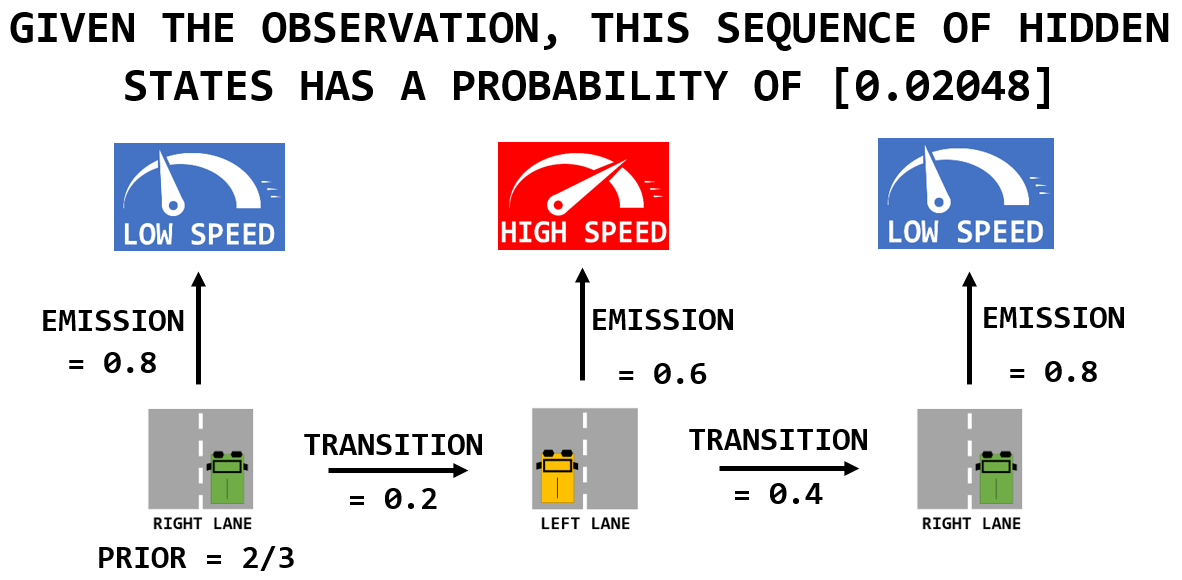
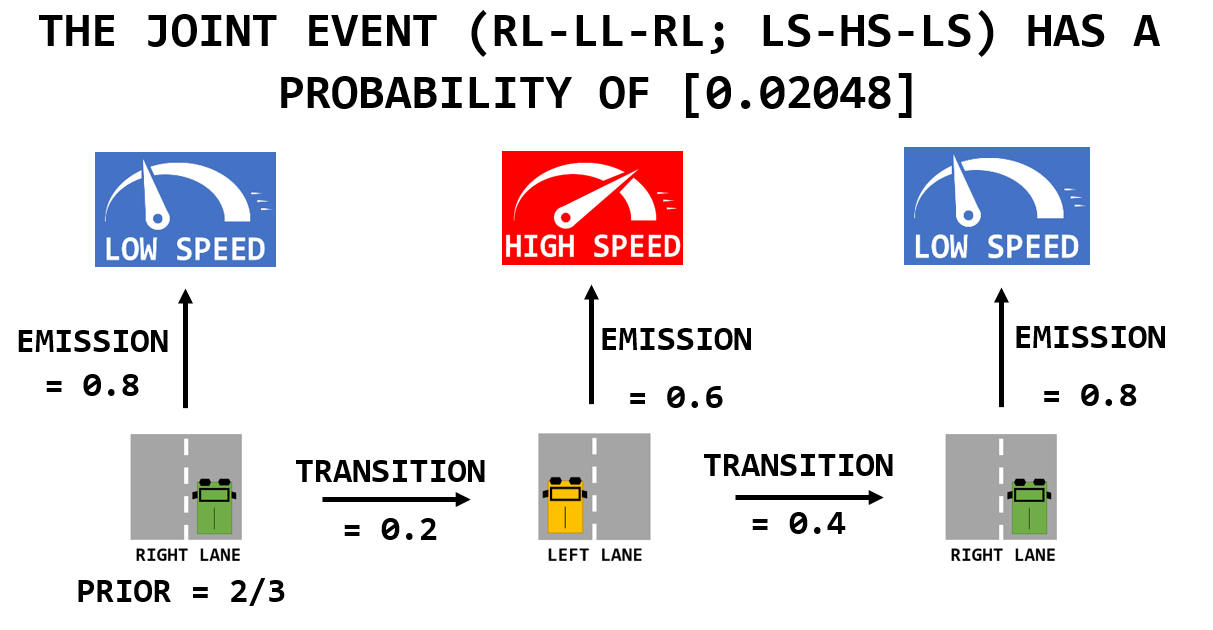
docs - clarify the difference between posterior decoding and MLE

diff --git a/README.md b/README.md
@@ -10,8 +10,12 @@ Disclaimer:
 
 Addressed topics:
 - Problem setting using a basic example to introduce the **HMM terminology**.
-- Implementation of the **Viterbi Algorithm** for training Hidden Markov Models.
-- Implementation of the **Baum–Welch Algorithm** to find the maximum likelihood estimate of the parameters of the HMM.
+- Illustration of the **Bayes Rule** to determine the most likely sequence of state given a observation sequence.
+- Implementation of the **Forward and Backward Algorithm** to compute the probability of a particular observation sequence.
+- Implementation of the **Viterbi Algorithm** to find the most likely sequence of hidden states which could have generated a given observation sequence (**posterior decoding**).
+- Implementation of the **Baum-Welch Algorithm** to find the most likely parameters (state transition and emmission models) of the HMM given a observation sequence (**parameter learning** task).
+
+Given the model parameters, : is Solved by the Viterbi algorithm and **Posterior decoding**.
 
 # Problem motivation
 For left-hand-drive countries such as the UK, just invert the reasoning :smiley:
@@ -19,7 +23,7 @@ For left-hand-drive countries such as the UK, just invert the reasoning :smiley:
 - Your car is driving on a **2-lane highway**.
 - Imagine that you can **remotely monitor the velocity of the car (I communicate it to you)**
 - But you do have **no direct access to the lateral position** (`right lane` of `left lane`).
-- How could you deduce the `lane` based on the single information we receive: the `speed`?
+- How could you deduce the `lane` based on the single information we receive (the `speed`)?
 
 #### Emission probability
 
@@ -30,11 +34,11 @@ If I am telling you that I am driving with a `low speed`, you **may deduce** tha
 
 Similarly, if you get informed of a `high speed`, you could say that I am **more likely** to be driving on the left lane.
 - Probably overtaking another vehicle.
-- Nevertheless, this is **not always true**: think of the situation where you are waiting on the left lane behind a truck trying to overtake another truck
+- Nevertheless, this is **not always true**: think of the situation where you are waiting on the left lane behind a truck trying to overtake another truck.
 
 We get a **first intuition**:
 - The variable `lane` seems to have an impact on the variable `speed`.
-- In  other words: *a priori* **you do not drive at the same pace depending if you are one the `left lane` or the `right lane`**.
+- In  other words: **you do not drive at the same pace depending if you are one the `left lane` or the `right lane`**.
 - But the relation is **not deterministic**, rather **stochastic**.
 
 This finding will be modelled using **`emission probabilities`** in the following.
@@ -45,7 +49,7 @@ You could have another intuition:
 - Human drivers usually **stay on their lanes**.
 - Hence if you are on `right lane` at time `t`, you are likely to still be on `right lane` at time `t+1`.
 - Again, this **does not always hold** and you can find **exception**.
-- But here comes a second intuition: *a priori* **the `lane` at time `t` is influenced by the `lane` at time `t-1`**.
+- But here comes a second intuition: **the `lane` at time `t` is influenced by the `lane` at time `t-1`**.
 
 The concept of **`transition probability`** will be used to model this second remark.
 
@@ -58,44 +62,44 @@ The concept of **`transition probability`** will be used to model this second re
 
 ### Objective
 
-> We want to **infer the lane** (`right` of `left`) of the car (= **hidden state**) based on a **sequence of speed measurements** (= **observation**)
+> We want to **infer the lane** (`right` of `left`) of the car (= **hidden state**) based on a **sequence of speed measurements** (= **observation**).
 
 ### Assumptions
 To keep the problem as simple as possible:
 - Let's **discretize the speed** into `low speed` and `high speed`.
 - Time steps are discretized.
-- Lane transitions are ignored: either you are on `left lane` or you are on `right lane`
+- Lane transitions are ignored: either you are on `left lane` or you are on `right lane`.
 
 A word about the **Markov Property**:
-- We just said that it is useful to know the present `lane` (at time `t`) to infer the future `lane` (at time `t+1`)
+- We just said that it is useful to know the present `lane` (at time `t`) to infer the future `lane` (at time `t+1`).
 - What about the previous `lane` at `t-1`? It probably also hold relevant information?
 - Here is a strong assumption about inferring in this stochastic process:
 	- the conditional probability distribution of **future states** of the process (conditional on both past and present states) **depends only upon the present state**, not on the sequence of events that preceded it.
-- In other words, **"the future is independant of the past given the present"**
-- This strong assumption is known as the **Markov Property** (also named **"memoryless property"**) and will make computations easier in the following.
+- In other words, **"the future is independant of the past given the present"**.
+- This **strong assumption** is known as the **Markov Property** (also named **"memoryless property"**) and will make computations easier in the following.
 
 # Problem formulation
+
+For HMM:
 
 - **Hidden state**: discrete random variable `lane` in {`Right Lane`, `Left Lane`}
 - **Observation**: discrete random variable `speed` in {`Low Speed`, `High Speed`}
 - **Emission probability**: `P[speed(t)` given `lane(t)]`
 - **Transition probability**: `P[lane(t+1)` given `lane(t)]`
-- **Prior probability**: `P[lane(t)]`
-- **Marginal probability**: `P[speed(t)]`
-- **Posterior probability**: `P[lane(t)` given `speed(t)]`
-
+- **Initial state probability**: `P[lane(t)]`
 
 # Questions:
 - [Q1](#q1) - How to **derive the probability models**?
-- [Q2](#q2) - If you receive a **single observation**, what are the probability for the car to be in each lane?
-- [Q3](#q3) - What is the **most likely `lane` sequence** if the **sequence of observations** is [`low speed`, `high speed`, `low speed`]?
-- [Q4](#q4) - What if you are **not directly given the probability models**?
+- [Q2](#q2) - If you receive a **single speed observation**, what are the probability for the car to be in each lane?
+- [Q3](#q3) - What is the **probability of an observation sequence**? For instance [`low speed`, `high speed`, `low speed`].
+- [Q4](#q4) - What is the **most likely `lane` sequence** if the **observation sequence** is [`low speed`, `high speed`, `low speed`]?
+- [Q5](#q5) - What if you are **not directly given the probability models**?
 
 # Answers
 
 ## Q1 - How to derive the probability models?
 
-Let assume we are given some data: a sequence of observations and states.
+Let assume we are given some data: a observation sequence and states.
 - Here are only a few for simplicity but you could imagine longer recordings.
 - You can think of it as some **samples** of the underlying **joint distributions**.
 
@@ -103,7 +107,7 @@ The idea is to **approximate the model parameters by counting the occurrences**.
 
 ### Transition probability
 
-**Counting the number** of transitions gives a likelihoods we can used for our **transition probability** model.
+**Counting the number** of transitions, we can derive a **transition probability** model.
 - For instance, among the `15` transitions starting from `right lane`, `3` ended in `left lane`.
 	- Hence P[`right lane` -> `left lane`] = `0.2`
 - Since probabilities must sum to one (normalization), or just by counting for the other case (`right lane` is followed `12` times by a `right lane`)
@@ -116,14 +120,13 @@ The idea is to **approximate the model parameters by counting the occurrences**.
 ### Emission probability
 
 Counting can also be used to determine the **emission probability** model.
-- For instance, how many times a `left lane` has caused a `high speed`?
-- Note: in the **Bayesian framework**, we will see that it corresponds to the **Likelihood**.
+- For instance, how many times has the hidden state `left lane` caused a `high speed` observation?
 
 | ![Derivation of the emission probability model](docs/deriving_emission_model.PNG "Derivation of the emission probability model")  | 
 |:--:| 
 | *Derivation of the emission probability model* |
 
-## Prior probability
+## Initial state probability
 
 At any time `t`, what is your guess on the **distribution of the hidden state if no observation is given**?
 - Two options are available:
@@ -136,9 +139,9 @@ At any time `t`, what is your guess on the **distribution of the hidden state if
 
 ### Summary
 
-| ![Hidden Markov Model with the `prior probability` model (up), `transition probability` model (middle), and the `emission probability` model (below)](docs/hmm.PNG "Hidden Markov Model with the `prior probability` model (up), `transition probability` model (middle), and the `emission probability` model (below)")  | 
+| ![Hidden Markov Model with the `initial state probability` model (up), `transition probability` model (middle), and the `emission probability` model (below)](docs/hmm.PNG "Hidden Markov Model with the `initial state probability` model (up), `transition probability` model (middle), and the `emission probability` model (below)")  | 
 |:--:| 
-| *Hidden Markov Model with the `prior probability` model (up), `transition probability` model (middle), and the `emission probability` model (below)* |
+| *Hidden Markov Model with the `initial state probability` model (up), `transition probability` model (middle), and the `emission probability` model (below)* |
 
 ## Q2 - If you receive a single observation, what are the probability for the car to be in each lane?
 
@@ -147,20 +150,23 @@ At any time `t`, what is your guess on the **distribution of the hidden state if
 Before any observation we know that `right lane` appears `2/3` of the time and `left lane` `1/3`.
 - These probabilities would have been the answers if we were to **ignore the observation**.
 - This distribution (called `prior`) must be **updated** when considering the observation.
-- The `prior` is converted to a `posterior` using `likelihood` as `observations` are considered.
+- When considering the observation, the `prior` is converted to a `posterior` using `likelihood` terms.
 
 ### Likelihood
 
 Based on supplied data, we found that on the left lane it is more likely to drive fast. And slow on the right lane.
-- This led to `emission probability`, also understood as `likelihood`:
+In other words, you will be rather "suprised" if a left lane causes.
+I like the concept of **"Surprise"** to introduce the concept of **"Likelihood"**
+- The likelihood is, in this case, equivalent to the `emission probability`:
 	- **given a state**, what is the probability for each observation.
-- In the `posterior`, it is the **opposite** that apply:
+- Actually, the question is interested by the exact opposite:
 	- **given an observation**, what is the probability for each state?
+	- this is called the `posterior` and is linked to `prior` via the `likelihood`.
 
 ### Marginal
 The Bayes Rule states that `Posterior` = `Normalized (prior * likelihood)`
-- The normalization is done using the `Marginal Probabilities`
-- Under all possible hypothesese, how probable is each `speed`?
+- The normalization (the posterior terms must sum to `1`) is achieved using the `Marginal Probabilities`.
+- Under all possible hypotheses, how probable is each `speed`?
 - Using the **law of total probability**:
 	- P(`high speed`) = P(`high speed` given `left lane`) `*` P(`left lane`) + P(`high speed` given `right lane`) `*` P(`right lane`)
 	- P(`low speed`) = P(`low speed` given `left lane`) `*` P(`left lane`) + P(`low speed` given `right lane`) `*` P(`right lane`)
@@ -195,13 +201,11 @@ Posteriors:
 - P(`right lane` given `high speed`) = `2/3` `*` `0.2` / `1/3` = `0.4`
 - P(`right lane` given `low speed`) = `2/3` `*` `0.8` / `2/3` = `0.8`
 
-#### Maximum Likelihood Estimation (MLE)
-Finally we will to **pick the sequence (here only one) of hidden states that makes the observations the most likely to happen**.
-
-This is called **Maximum Likelihood Estimation** (MLE).
-
 ### Summary
 
+| ![Derivation of the posterior probabilities for a single observation](docs/posteriors.PNG "Derivation of the posterior probabilities for a single observation")  | 
+|:--:| 
+| *Derivation of the posterior probabilities for a single observation* |
 
 The question was *given an observation, what is the most likely hidden state?*.
 Well, just looking at the numbers on the figure below and taking the `max()`, the answer is:
@@ -211,41 +215,72 @@ Well, just looking at the numbers on the figure below and taking the `max()`, th
 
 It is close to our intuition.
 
-| ![Derivation of the posterior probabilities for a single observation](docs/posteriors.PNG "Derivation of the posterior probabilities for a single observation")  | 
+This method is sometimes named **"Posterior Decoding"**.
+
+## Q3 - What is the probability of an observation sequence?
+
+pass
+
+## Q4 - What is the most likely `lane` sequence if the observation sequence is [`low speed`, `high speed`, `low speed`]?
+
+### Question interpretation
+
+When trying to **reformulate the question**, I was puzzled since I ended up with two possible answers.
+
+It all depends on what we mean with _"What is the **most likely state sequence** given an observation sequence?"_
+
+- it can be the state sequence that has the **highest conditional probability?** This is was we have done in [Q2](#q2) with `#BayesRule`. `#PosteriorDecoding`.
+- it can be the state sequence that **makes the observation sequence the most likely to happen?** `#MLE`. `#Viterbi`. In this case, we compute the **Joint Probabilities** i.e. the probabilities for the **Intersection** [`State Sequence` `+` `Observation Sequence`].
+- ??(can the MLE be on the conditional probability of observation given state? what differs with the upper joint event is the normalization)??
+
+In other words, the answer could be maximizing two kind of probability
+
+- either the **conditional probability**: (state **given** observation)
+- or the **joint probability**: (state **and** observation).
+
+> For this question, we will be looking for the **most likely sequence of hidden states** which could have generated a **given observation sequence**.
+
+#### Maximum Likelihood Estimation (MLE)
+We will to **pick the sequence (in [Q5](#q5) it was of size `1`) of hidden states that makes the observations the most likely to happen**.
+
+This method is called **Maximum Likelihood Estimation** (MLE).
+
+| ![Derivation of the probability of the event [`RL-LL-RL`; `LS-HS-LS`]](docs/compute_three.PNG "Derivation of the probability of the event [`RL-LL-RL`; `LS-HS-LS`]")  | 
 |:--:| 
-| *Derivation of the posterior probabilities for a single observation* |
+| *Derivation of the probability of the event [`RL-LL-RL`; `LS-HS-LS`]* |
 
-## Q3 - What is the most likely `lane` sequence if the sequence of observations is [`low speed`, `high speed`, `low speed`]?
+Here are the different steps performed for the observation sequence [`low speed`, `high speed`, `low speed`].
+- First enumerate the `2^3 = 8` possible sequences of hidden states.
+- For each candidate, **compute the probability for the state sequence candidate to generate the observation sequence**.
+	- Start by the probability of the first state element to happen (**initial state probability**).
+	- List the **emission** and **transition probabilities**.
+	- The probability of the observation sequence (?likelihood) is the product of all listed probabilities (thank @MarkovProperty).
+- Apply `max()` to get the **Maximum Likelihood Estimate**:
+	- In this case, the state sequence [`right lane`, `right lane`, `right lane`] makes the observation sequence the most likely to happen.
 
-The previous sequence of `observation` had `size=1`
-- For each observation we have computed the two posterior probabilities and then **select the maximum one** (MLE)
+For instance with the state sequence candidate [`low speed`, `high speed`, `low speed`]
+- The **joint probability** is the product of all the probabilities listed on the figure below.
+- P([`low speed`, `high speed`, `low speed`] `&&` [`right lane`, `left lane`, `right lane`]) = `0.02048`
 
-| ![Derivation of the likelihood of the observation for a particular sequence of states](docs/compute_three.PNG "Derivation of the likelihood of the observation for a particular sequence of states")  | 
+| ![Derivation of the MLE for a particular observation sequence](docs/results_three.PNG "Derivation of the MLE for a particular observation sequence")  | 
 |:--:| 
-| *Derivation of the likelihood of the observation for a particular sequence of states* |
+| *Derivation of the MLE for a particular observation sequence* |
 
-The same can be performed for the sequence [`low speed`, `high speed`, `low speed`].
-- First enumerate the `2^3 = 8` possible sequences of hidden states
-- For each candidate, **compute the likelihood of the observations**: how likely is [`low speed`, `high speed`, `low speed`] to happen.
-	- Start by the probability of the first state element to happen (**prior**)
-	- List the **emission** and **transition probabilities**
-	- The likelihood of the observation is the product of all listed probabilities (thank @MarkovProperty)
-- Apply `max()` to get the **Maximum Likelihood Estimate**: [`right lane`, `right lane`, `right lane`]
+#### Note
 
-From all possible 3-observation sequences, what is the probability of getting [`low speed`, `high speed`, `low speed`]?
-- well, it is just the sum of all the likelihoods we have been computing: P([`low speed`, `high speed`, `low speed`]) = `0.1318394`
+`0.1318394` `=` `0.01152` `+` `0.01536` `+` `0.000853` `+` `0.01536` `+` `0.054613` `+` `0.0068267` `+` `0.02048` `+` `0.0068267`
 
-| ![Derivation of the MLE for a particular sequence of observation](docs/results_three.PNG "Derivation of the MLE for a particular sequence of observation")  | 
-|:--:| 
-| *Derivation of the MLE for a particular sequence of observation* |
+If you sum all the probabilities of the eight cases depicted the figure above, you do not end up to `1`, but to `0.1318394`. Why?
+- Well, `0.1318394` represents the **probability for the observation sequence** [`low speed`, `high speed`, `low speed`] to happen.
+	- P[`low speed`, `high speed`, `low speed`] = P[`obs`] = P[`obs` `&&` `state seq1`] + P[`obs` `&&` `state seq2`] + ... + P[`obs` `&&` `state seq8`]
+	- ?? total probability is with conditional. What is it with intersections?
+	- ?? This confirms the result of [Q5](#q5) ??
+- What would sum to `1` is the sum over all possible 3-element observation sequences:
+	- `1` = P[`LLL`] + P[`LLH`] + P[`LHL`] + P[`LHH`] + P[`HLL`] + P[`HLH`] + P[`HHL`] + P[`HHH`]
 
+The presented approach could be used for **larger observation sequences**. But quickly, an issue appears:
 
-A **similar approach** can be used for larger sequences of observation.
-
-For three
-But an issue appears:
-
-| Size of the `observation` sequence | Number of posteriors to compute before applying `max()` (for **MLE**) |
+| Size of the `observation` sequence | Number of probabilities to compute before applying `max()` (for **MLE**) |
 | :---:        |     :---:      |
 | `1`   | `2`     |
 | `2`   | `4`     |
@@ -258,12 +293,17 @@ But an issue appears:
 Assume that after the second observation, the sub-sequence (`left lane`, `right lane`) is found to be more likely that the sub-sequence (`right lane`, `right lane`).
 - Is it **worth carry on some investigation** in the branch (`left lane`, `right lane`)?
 - Do not forget that the only goal is to **find the most likely sequence (and nothing else)!**
-- Whatever you append to (`left lane`, `right lane`), the resulting sequence will be less likely than appending the same to (`right lane`, `right lane`).
+- Whatever you append to the sub-sequence (`left lane`, `right lane`), the resulting sequence will be less likely than appending the same to (`right lane`, `right lane`).
 
 This example show the intuition of `Dynamic Programming`:
-- Compute local blocks and consider only the most promising ones to build the next ones.
 
-## Q4 - What if you are **not directly given the probability models**?
+> Compute local blocks and consider only the most promising ones to build the next ones.
+
+pass  # notebook
+
+## Q5 - What if you are **not directly given the probability models**?
+
+pass
 
 ### EM algorithm
 
